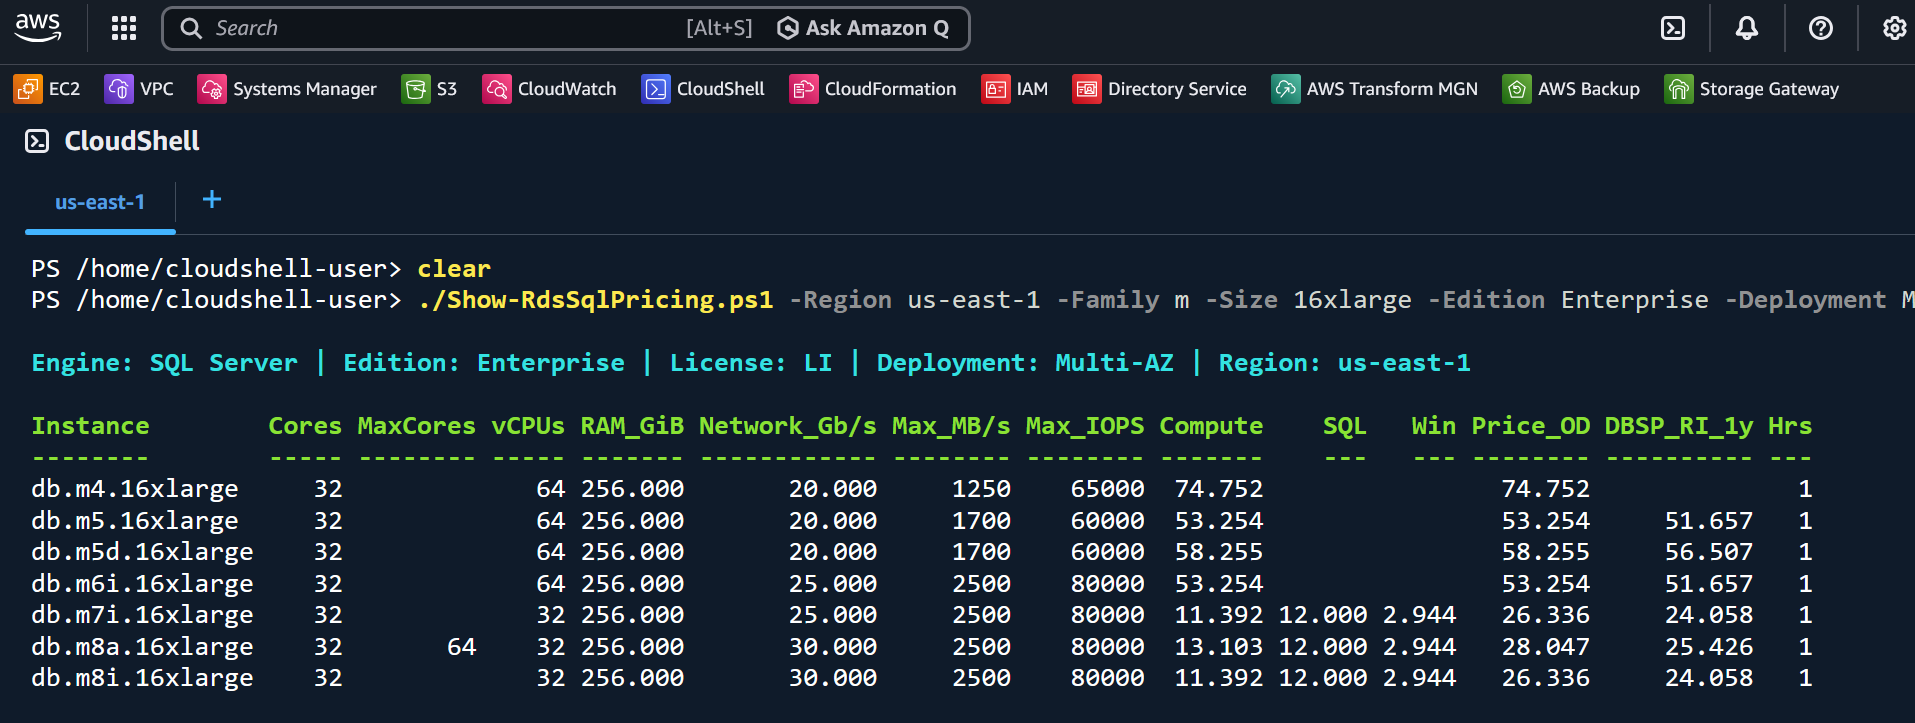
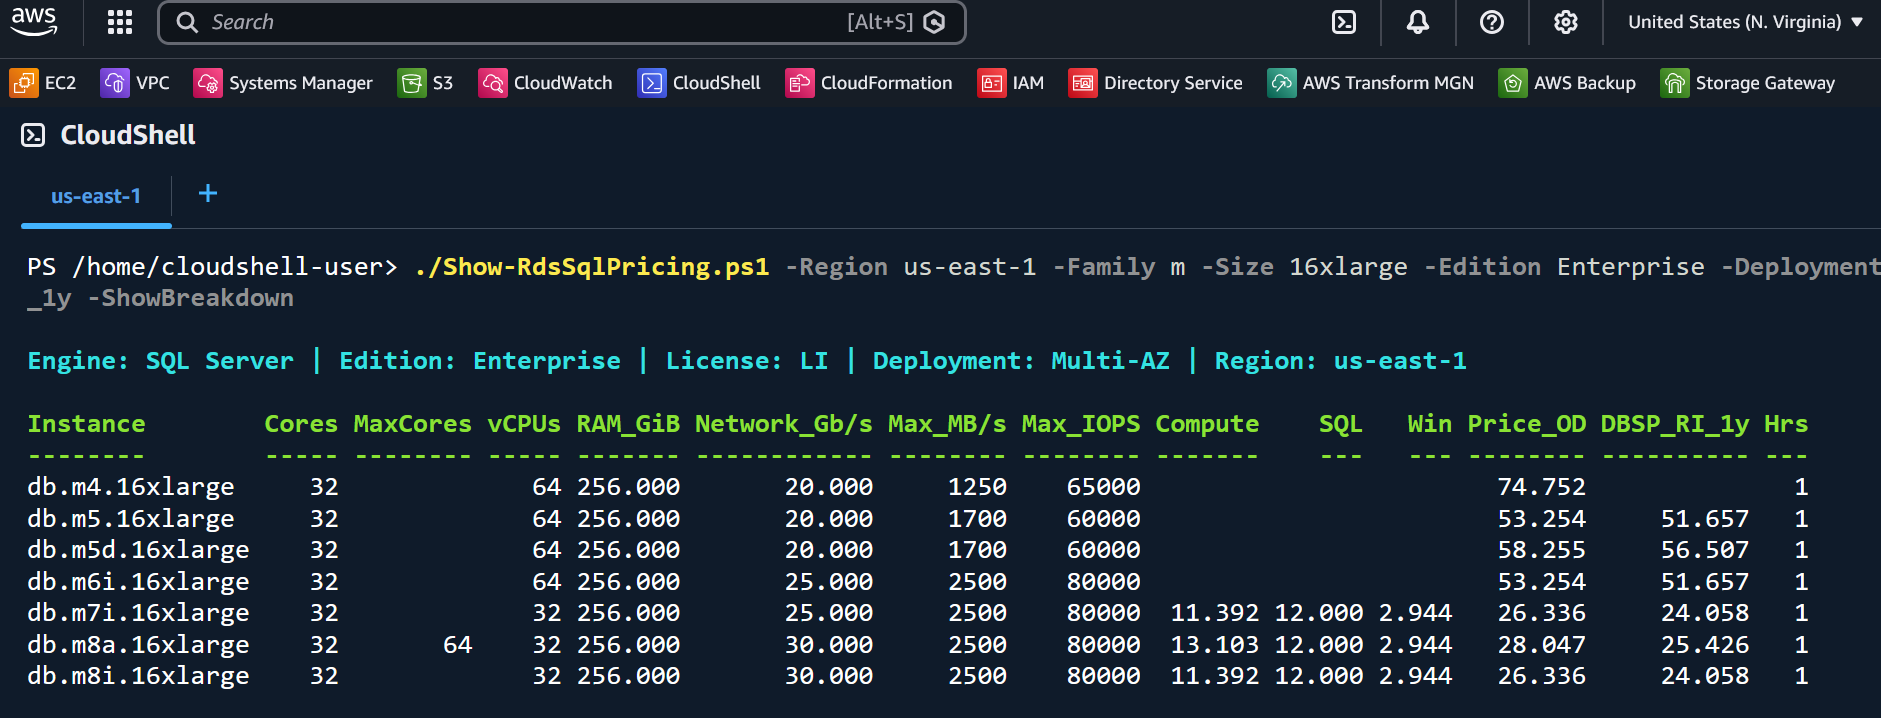
Merge pull request #61 from HP-85/main
updates to index.md and pricing output

Pull request: updates to index.md and pricing output
*Issue #, if available:*

*Description of changes:*
 bundled pricing now shows 'blank' for compute costs and just the total.

diff --git a/docusaurus/docs/SQL Server/Guides/Show-RdsSqlPricing/index.md b/docusaurus/docs/SQL Server/Guides/Show-RdsSqlPricing/index.md
@@ -4,16 +4,17 @@ sidebar_label: RDS SQL Server Pricing
 ---
 
 # Compare RDS for SQL Server Instance Pricing
+by Craig Cooley
 
 ## Use Case
 
-When sizing or right-sizing Amazon RDS for SQL Server, choosing the right instance family and size requires understanding the **true total cost** — not just the base compute price. Newer-generation instances (db.m7i, db.m8i, db.m8a, etc.) use **unbundled pricing**, where SQL Server and Windows license fees are separate line items added on top of compute. Older generations (m5, r5, r6i) bundle compute, Windows, and SQL into a single price.
+When sizing or right-sizing Amazon RDS for SQL Server, choosing the right instance family and size requires understanding the **true total cost** — not just the base compute price. Newer-generation instances (m7i, m8i, m8a, etc.) use **unbundled pricing**, where SQL Server and Windows license fees are separate line items added on top of compute. Older generations (m5, r5, r6i) bundle everything into a single price.
 
-This makes apples-to-apples comparison difficult:
+This can make comparison difficult:
 
-- **"Which is cheaper — an r6i.8xlarge or an r8i.8xlarge?"** The Pricing API shows a lower number for db.r8i, but SQL Server and Windows license fees need to be added.
+- **"Which is most cost effective — an r6i.8xlarge or an r8i.8xlarge?"** The r6i is priced as 'bundled' and the r8i is priced as 'unbundled'.  Knowing how costs are calculated for each is important to lowering costs. 
 - **"How much would I save with BYOM (Bring Your Own Media)?"** You need to know which families support BYOM and what the license-fee delta is.
-- **"What's the 1-year commitment discount?"** Unbundled instances use Database Savings Plans; bundled ones use Reserved Instances — different APIs and calculations.
+- **"What's the 1-year commitment discount?"** Unbundled instances use Database Savings Plans; bundled ones use Reserved Instances — different APIs, different math.
 - **"What physical core count do I actually get with Optimize CPU?"** The default core count (relevant for SQL Server licensing) isn't visible in the console pricing page.
 
 `Show-RdsSqlPricing.ps1` answers all of these in a single table, pulling live data from the AWS Pricing, RDS, EC2, and Savings Plans APIs.
@@ -57,9 +58,9 @@ Optional (for commitment pricing): `AWS.Tools.SavingsPlans`
 - SQL Server license fees calculated with the **Microsoft 4-vCPU minimum**
 - **BYOM support** — filters to eligible families and removes the SQL Server fee
 - **Physical core counts** (default + max) from RDS Orderable Instance Options
-- **Network bandwidth**, **max EBS throughput**, and **max IOPS** per instance
+- **Network bandwidth**, **max EBS throughput**, and **max IOPS** per instance — the storage and network ceilings that matter for right-sizing, not just vCPU and RAM
 - **1-year commitment pricing** (Database Savings Plan or Reserved Instance)
-- Multi-AZ aware — correct license doubling for Windows OS only (SQL Server passive failover rights)
+- Multi-AZ or Single-AZ options
 
 ## Script Reference
 

diff --git a/docusaurus/docs/SQL Server/Guides/Show-RdsSqlPricing/README.md b/docusaurus/docs/SQL Server/Guides/Show-RdsSqlPricing/README.md
@@ -51,7 +51,7 @@ Optional (for `-DBSP_RI_1y`): `AWS.Tools.SavingsPlans`
 ## Example output
 
 ```powershell
-./Show-RdsSqlPricing.ps1 -Region us-east-1 -Family r -Size 16xlarge -Edition Enterprise -Deployment Multi-AZ -DBSP_RI_1y -ShowBreakdown
+./Show-RdsSqlPricing.ps1 -Region us-east-1 -Family m -Size 16xlarge -Edition Enterprise -Deployment Multi-AZ -DBSP_RI_1y -ShowBreakdown
 ```
 
 ![Show-RdsSqlPricing sample output](Show-RdsSqlPricing-sample.png)
@@ -140,6 +140,7 @@ Optional (for `-DBSP_RI_1y`): `AWS.Tools.SavingsPlans`
 - Instance availability varies by region — some families may not appear in all regions.
 - **Developer edition**: Pulls both "Developer" (bundled, older gen) and "Enterprise Developer" (unbundled, newer gen) from the API. The Pricing API may list instances (e.g. m5, r5) that are not actually orderable for Developer — refer to the [DB instance class support page](https://docs.aws.amazon.com/AmazonRDS/latest/UserGuide/SQLServer.Concepts.General.InstanceClasses.html) for actual availability.
 - **EBS specs**: `Max_MB/s` and `Max_IOPS` come from EC2 `DescribeInstanceTypes` (the same data the RDS hardware spec docs publish) and scale by instance size. RDS-exclusive types with no EC2 equivalent (e.g. db.x2m) show blank for these columns.
+- **`-ShowBreakdown` for bundled instances**: The component columns (`Compute`, `SQL`, `Win`) are blank for bundled/older-gen instances — the API returns a single all-in price (licenses included), which is shown in `Price_OD`. The component breakdown is only meaningful for unbundled instances.
 
 ---
 